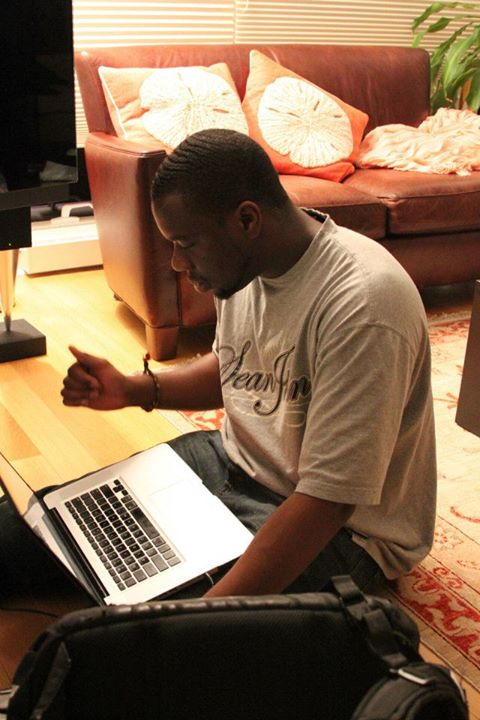
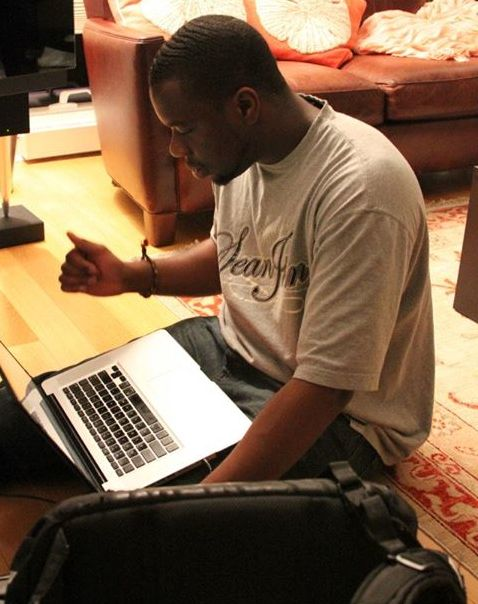
about page basically done

diff --git a/about.html b/about.html
@@ -114,10 +114,10 @@
 <section id='content'>
 
   <div class='row'>
-    <div class="column_4 inherit-width">
-      <img src="images/about-me/pic2.jpg" alt="" />
+    <div class="column_6 inherit-width">
+      <img src="images/about-me/main-2.jpg" alt="" />
     </div>
-    <div class="column_4 inherit-width">
+    <div class="column_3 inherit-width">
       <h5>
         Hi! Thank you for taking a look at my portfolio
       </h5>
@@ -133,41 +133,42 @@
       </p>
 
       <!-- <a href="http://linkedin/in/aderinsola" target='_blank'> 
-        <span class="fui-linkedin"></span>
+      <span class="fui-linkedin"></span>
       </a> -->
     </div>
     
-    <div class="column_4 inherit-width">
-      <h5>
-        Background
-      </h5>
-      <p>
-        Originally from Lagos, Nigeria, I came to the US for schooling and hope to eventually return home. I love sports, specifically football, the best in the world. In my free time I like to checkout all the new designs that people have been creating. Usually I look at behance, dribbble, and panda, but one of my friends just put me on producthunt.com and i'm obsessed with that too! It wasn't until my graduate program that I began thinking more about combining tangible/physical and digital spaces to create better experiences and interactions for users. Now, I am striving to learn more and improve in that field. 
-      </p>
-      <h5>
-        Passions
-      </h5>
-      <p>
-        Interaction Design
-      </p>
-      <p>
-        User Experience Design
-      </p>
-      <p>
-        Minimal Design
-      </p>
-      <p>
-        Panda (a beautiful chrome plugin for designers)
-      </p>
-      <p>
-        FIFA!
-      </p>
+      <div class="column_3">
+        <h5>
+          Background
+        </h5>
+        <p>
+          Originally from Lagos, Nigeria, I came to the US for schooling and hope to eventually return home. I love sports, specifically football, the best in the world. In my free time I like to checkout all the new designs that people have been creating. Usually I look at behance, dribbble, and panda, but one of my friends just put me on producthunt.com and i'm obsessed with that too! It wasn't until my graduate program that I began thinking more about combining tangible/physical and digital spaces to create better experiences and interactions for users. Now, I am striving to learn more and improve in that field. 
+        </p>
+        <h5>
+          Passions
+        </h5>
+        <p>
+          Interaction Design
+        </p>
+        <p>
+          User Experience Design
+        </p>
+        <p>
+          Minimal Design
+        </p>
+        <p>
+          Panda (a beautiful chrome plugin for designers)
+        </p>
+        <p>
+          FIFA!
+        </p>
 
-      <!-- <a href="http://linkedin/in/aderinsola" target='_blank'> 
+        <!-- <a href="http://linkedin/in/aderinsola" target='_blank'> 
         <span class="fui-linkedin"></span>
-      </a> -->
-    </div>
-    
+        </a> -->
+      </div>
+
+
     <!-- end of .row.margin-bottom -->
   </div>
 
